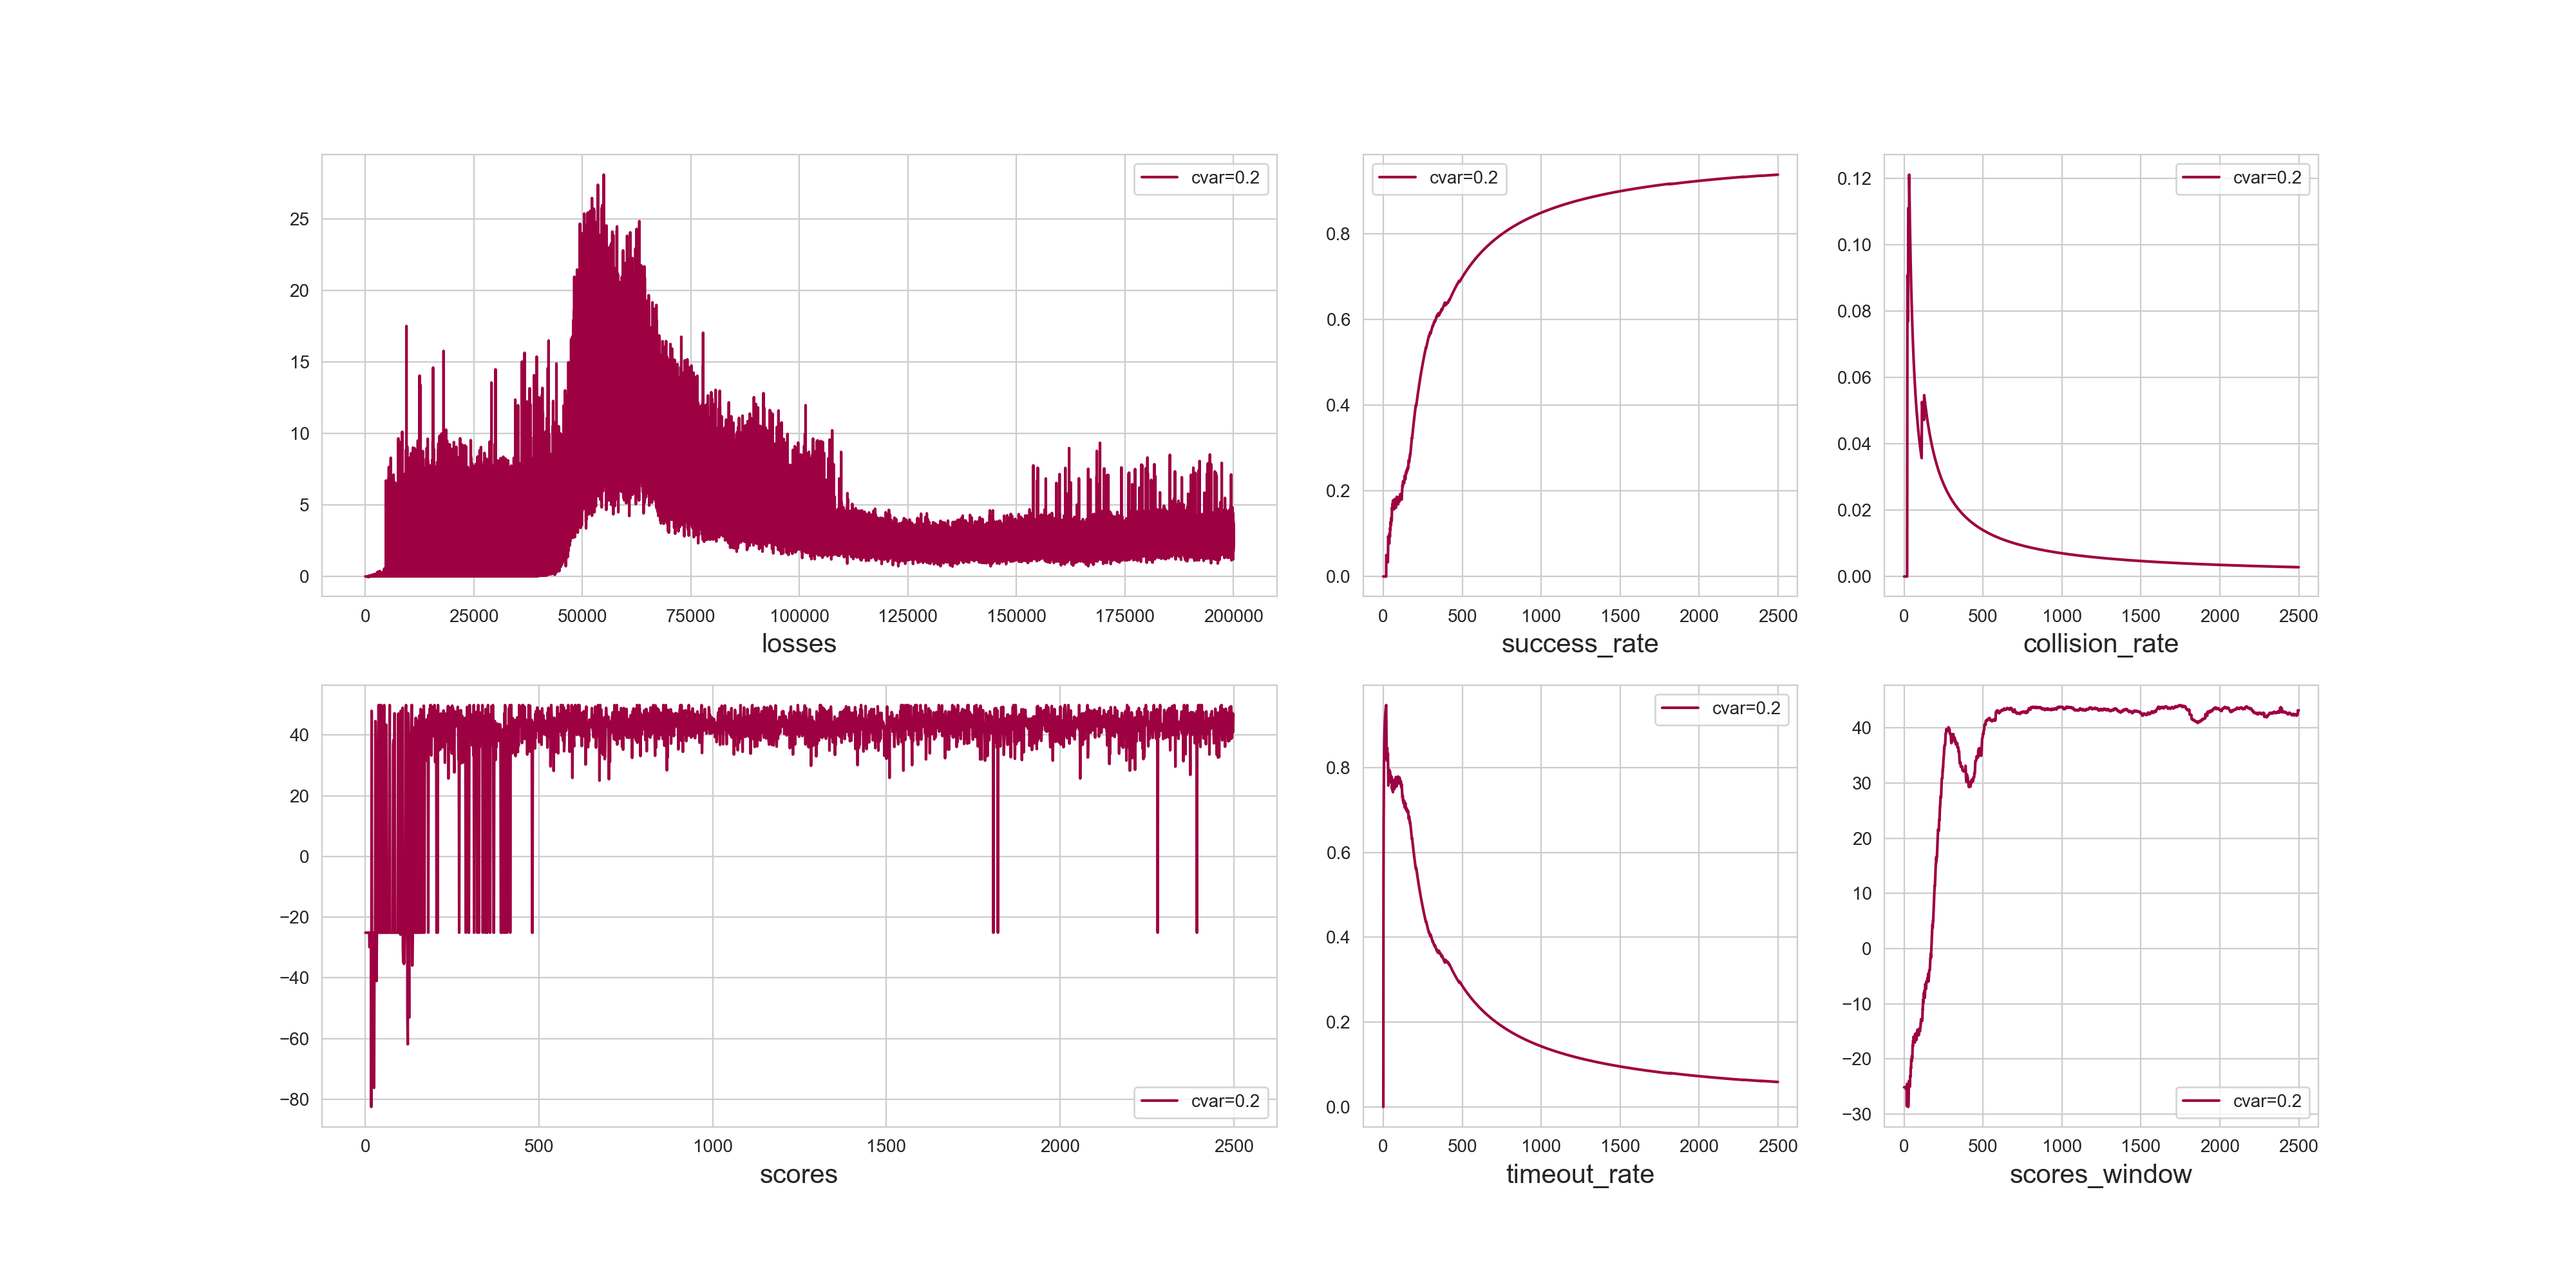
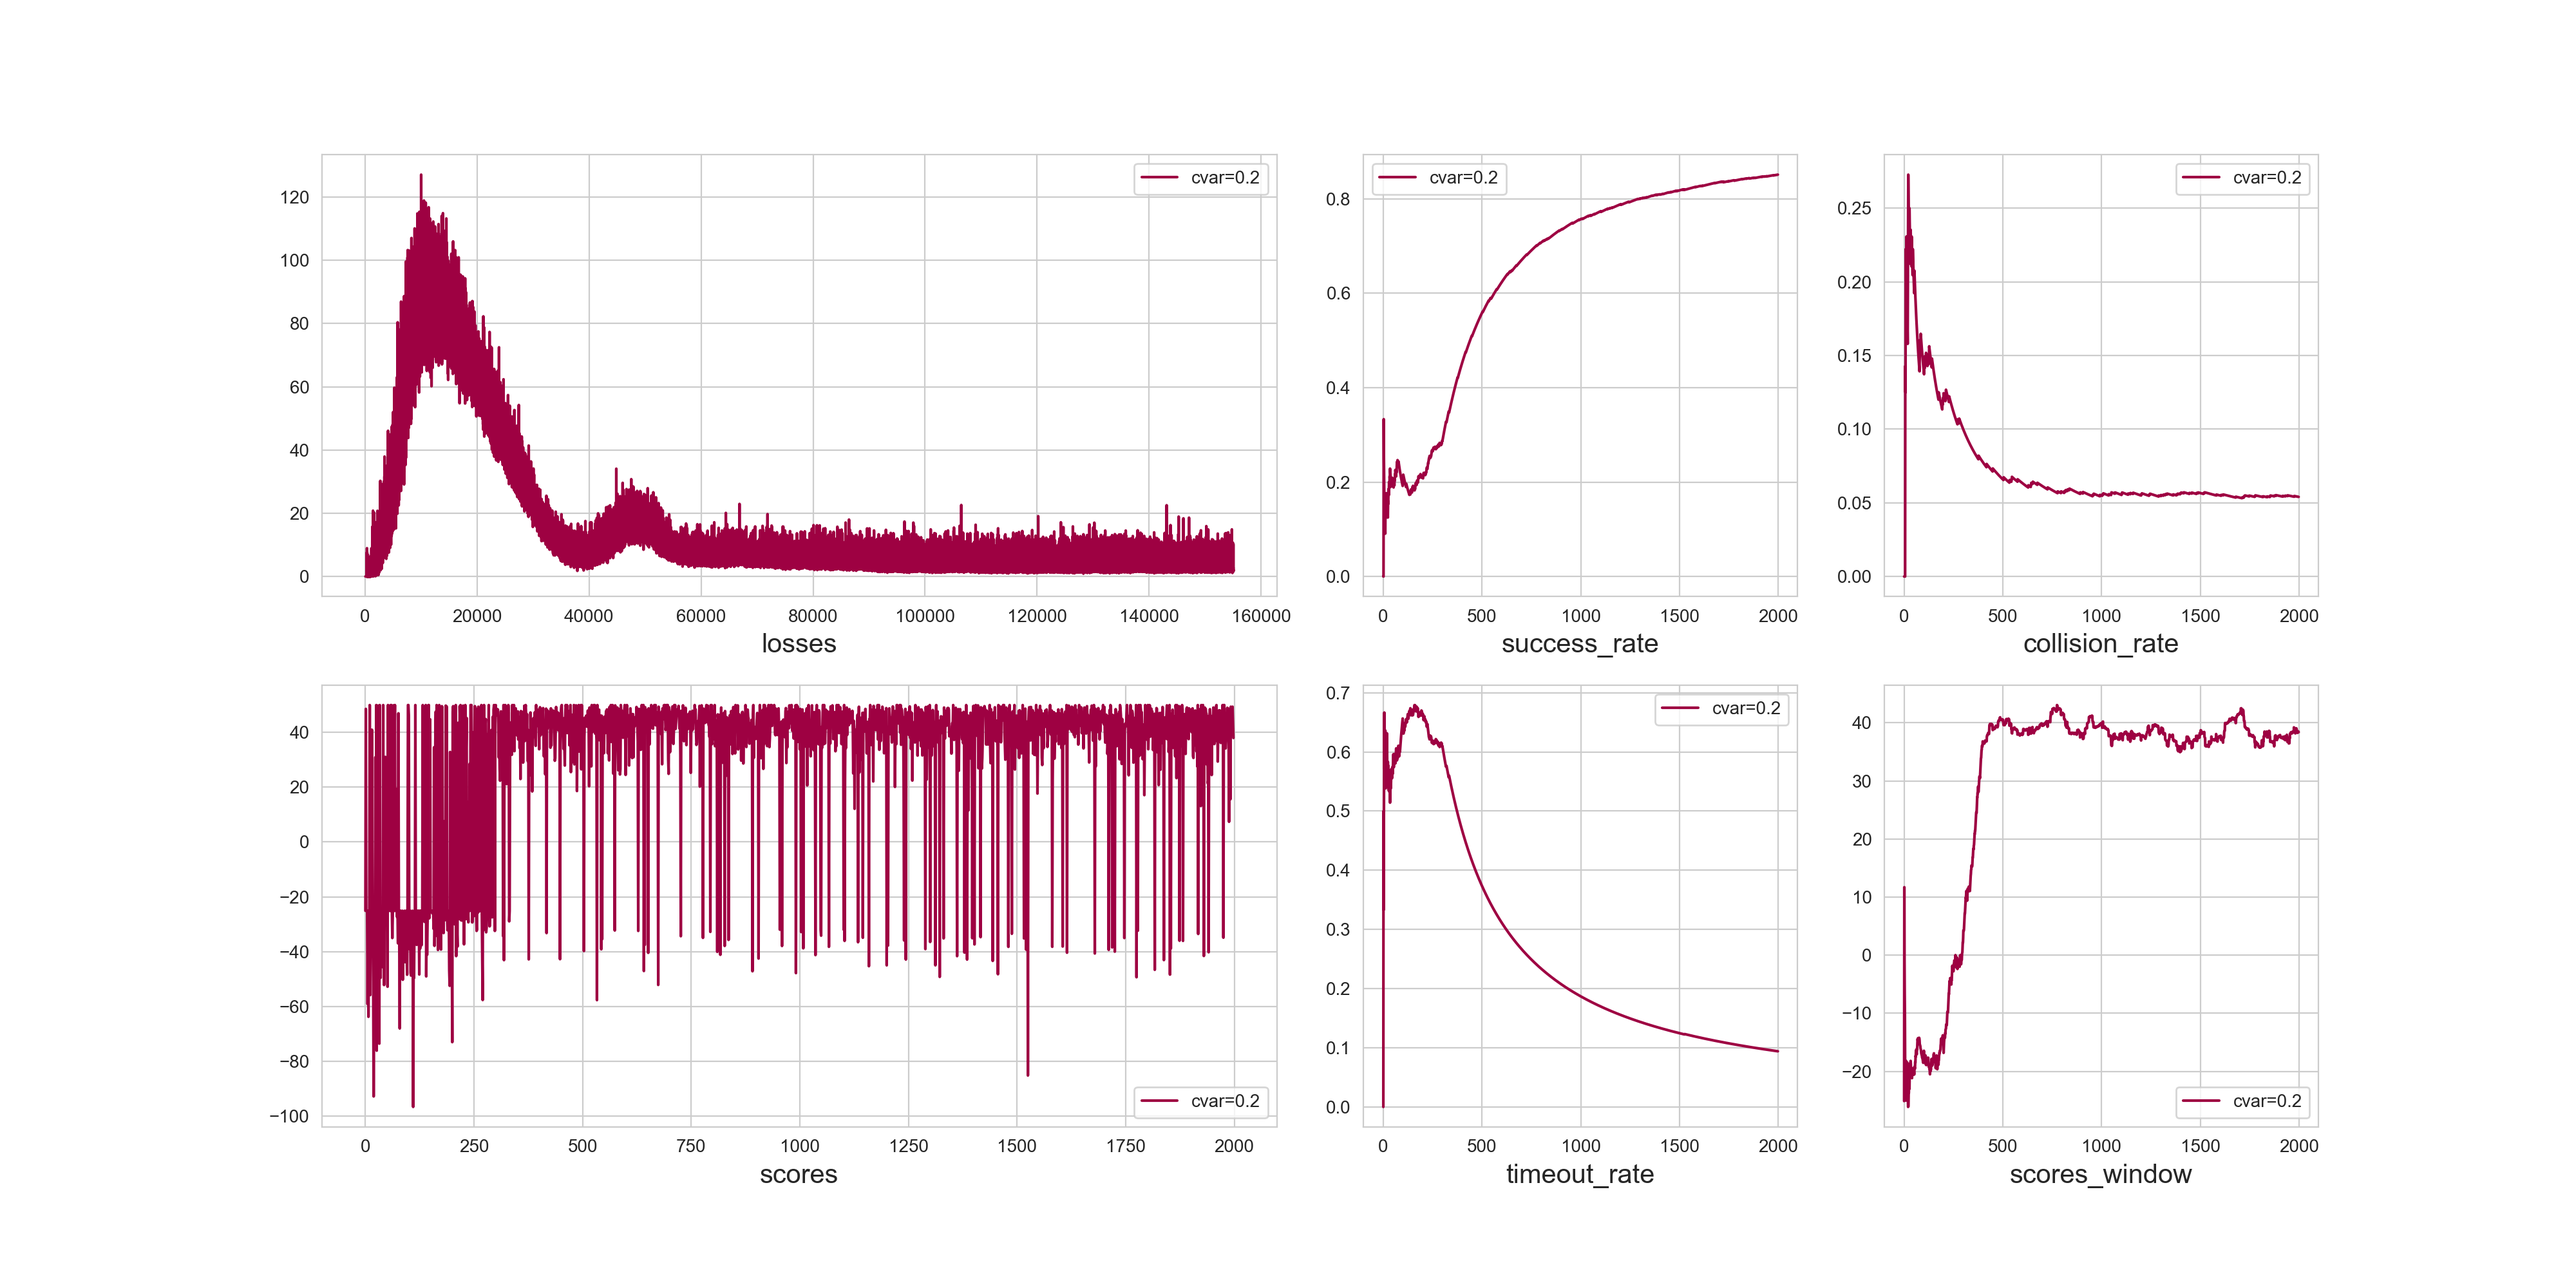
random obstacles with fixed goal pos works

diff --git a/train.py b/train.py
@@ -13,10 +13,9 @@ from collections import deque
 
 from agent import DQNAgent
 from utils.util import eval_runs, computeExperimentID, to_gym_interface_pomdp
-
 import crazyflie_env
 
-def run(frames, eps_fixed, eps_frames, min_eps):
+def run(n_episodes, frames, eps_fixed, eps_frames, min_eps):
     """Deep Q-Learning
     Params
     ======
@@ -90,7 +89,8 @@ def run(frames, eps_fixed, eps_frames, min_eps):
                 collision += 1
             elif info == "Goal Reached":
                 success += 1
-            #assert timeout + success + collision + 1 == i_episode
+            if i_episode == n_episodes:
+                break
             
             state = env.reset()
             score = 0
@@ -111,13 +111,15 @@ if __name__ == "__main__":
     parser.add_argument('--seed', default=5, help=" Random seed")
     parser.add_argument('--update_every', default=1, type=int, help='Update policy network every update_every steps')
     parser.add_argument('--batch_size', default=32, type=int, help='Batch size')
-    parser.add_argument('--layer_size', default=256, type=int, help='Hidden layer size of neural network') # increase model width
+    parser.add_argument('--layer_size', default=512, type=int, help='Hidden layer size of neural network') # increase model width
     parser.add_argument('--n_step', default=1, type=int, help='Number of future steps for Q value evaluation')
     parser.add_argument('--gamma', default=0.99, type=float, help='Gamma discount factor')
     parser.add_argument('--tau', default=1e-2, type=float, help='Tau for soft updating the network weights')
     parser.add_argument('--lr', default=2e-4, type=float, help='Learning rate')
     parser.add_argument('--buffer_size', default=50000, type=int, help='Buffer size of the replay memory')
     parser.add_argument('--frames', default=100000, type=int, help='Number of training frames')
+    parser.add_argument('--obstacle_num', default=0, type=int, help='Number of obstacles set in the env')
+    parser.add_argument('--n_episodes', default=2000, type=int, help='Number of episodes of training')
     args = parser.parse_args()
 
     if not os.path.exists(args.save_dir):
@@ -139,10 +141,12 @@ if __name__ == "__main__":
     np.random.seed(args.seed)
     env = gym.make(args.env)
     env.random_init = bool(args.random_init)
+    env.set_obstacle_num(args.obstacle_num)
+    
     #env.seed(args.seed)
     state = env.reset()
     state_size = len(to_gym_interface_pomdp(state))
-    print("State size:", state_size)
+    print("State size {} Num obstacle {}".format(state_size, env.obstacle_num))
 
     agent = DQNAgent(state_size=state_size,
                         num_directions=args.num_directions,
@@ -169,7 +173,7 @@ if __name__ == "__main__":
     # logger for multiple plots
 
     t_start = time.time()
-    run(frames=args.frames, eps_fixed=eps_fixed, eps_frames=args.frames / 5, min_eps=0.2)
+    run(n_episodes=args.n_episodes, frames=args.frames, eps_fixed=eps_fixed, eps_frames=args.frames / 5, min_eps=0.2)
     t_end = time.time()
     
     print("Training time: {}min".format(round((t_end-t_start) / 60, 2)))

diff --git a/test.py b/test.py
@@ -31,7 +31,7 @@ if __name__ == "__main__":
     parser.add_argument('--seed', default=5, help="Random seed")
     parser.add_argument('--update_every', default=1, type=int, help='Update policy network every update_every steps')
     parser.add_argument('--batch_size', default=32, type=int, help='Batch size')
-    parser.add_argument('--layer_size', default=256, type=int, help='Hidden layer size of neural network')
+    parser.add_argument('--layer_size', default=512, type=int, help='Hidden layer size of neural network')
     parser.add_argument('--n_step', default=1, type=int, help='Number of future steps for Q value evaluation')
     parser.add_argument('--gamma', default=0.99, type=float, help='Gamma discount factor')
     parser.add_argument('--tau', default=1e-2, type=float, help='Tau for soft updating the network weights')
@@ -41,12 +41,14 @@ if __name__ == "__main__":
     parser.add_argument('--init_y', default=-3, type=float, help='Initial robot position y')
     parser.add_argument('--render_mode', default='trajectory', help='Render mode')
     parser.add_argument('--render_density', default=8, type=int, help='Render density')
+    parser.add_argument('--obstacle_num', default=3, type=int, help='Number of obstacles set in the env')
     args = parser.parse_args()
 
     env = gym.make("CrazyflieEnv-v0")
+    env.set_obstacle_num(args.obstacle_num)
     state = env.reset()
     # if you want to set robot initial position by hand:
-    env.robot.set_state(args.init_x, args.init_y, 0, 2.8, 0, 0, env.obstacle_segments) # generalize to a slightly modified goal position
+    env.robot.set_state(args.init_x, args.init_y, 0, 3.0, 0, 0, env.obstacle_segments) # generalize to a slightly modified goal position
     state = env.robot.observe()
     print('initial state:', state) #observable state: px, py, vx, vy, radius
 
